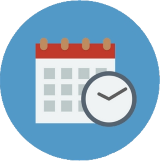
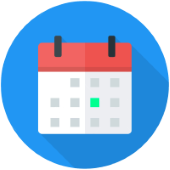
- Page home ameliorée - Design amelioré

diff --git a/public/stylesheets/main.css b/public/stylesheets/main.css
@@ -4,7 +4,7 @@ nav.top-nav {
     box-shadow: none;
 }
 div.nav-wrapper {
-    overflow: auto;
+    overflow: hidden;
     text-overflow: ellipsis;
     /*white-space: nowrap;*/
 }
